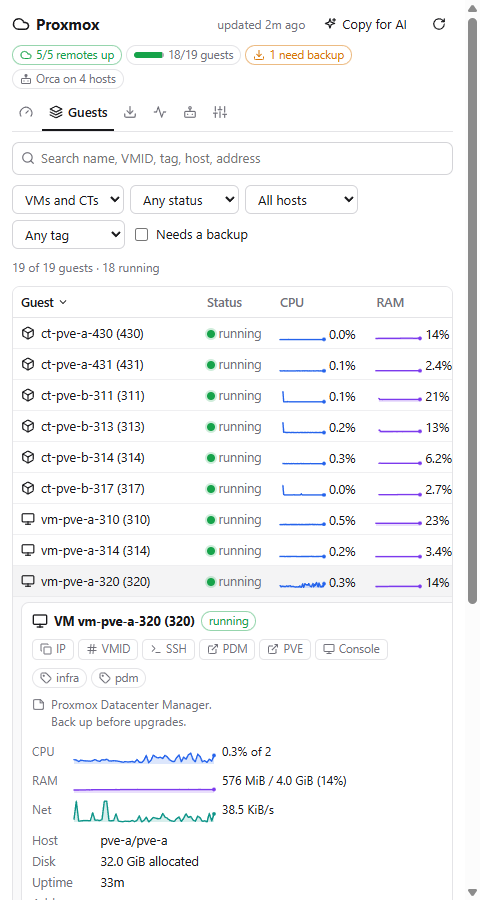
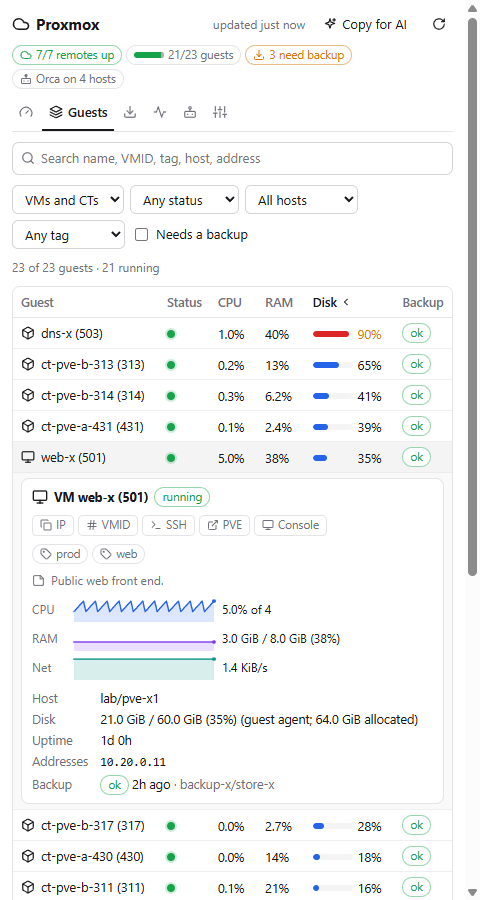
Screenshots from the example estate: the Disk column, the connections in Settings, and the listing images

diff --git a/dev/harness/listing.html b/dev/harness/listing.html
@@ -30,9 +30,9 @@
       const params = new URLSearchParams(location.search)
       const shot = params.get('shot') ?? '1'
       const SHOTS = {
-        1: [['cards', 'light', 'Hosts with live charts'], ['tree', 'dark', 'The estate as a tree, dark theme'], ['guests', 'light', 'Every guest, with its actions']],
+        1: [['cards', 'light', 'Hosts with live charts'], ['tree', 'dark', 'The estate as a tree, dark theme'], ['guests', 'light', 'Every guest, with disk use']],
         2: [['tasks', 'dark', 'Tasks of every remote'], ['planner', 'light', 'Where a new VM fits'], ['orca', 'light', 'Where Orca runs']],
-        3: [['ai', 'light', 'Copy for AI, previewed'], ['backups', 'light', 'Backups by age'], ['settings', 'dark', 'A read-only token, pinned TLS']],
+        3: [['ai', 'light', 'Copy for AI, previewed'], ['backups', 'light', 'Backups by age'], ['settings', 'dark', 'PDM, PVE and PBS: read-only, pinned']],
         cover: [['cards', 'light', ''], ['tree', 'dark', '']]
       }
       const GLYPH =

diff --git a/README.md b/README.md
@@ -40,7 +40,7 @@ Rendered from the bundled example estate (no real servers):
 <p>
   <img src="docs/screenshots/hosts-cards.png" alt="Host cards with CPU, memory and network sparklines, disk bars, update and version badges, notes and copy and open actions" width="240">
   <img src="docs/screenshots/tree-drag.png" alt="The tree of remotes, nodes, Orca hosts and guests in the dark theme, with a guest being dragged within its node" width="240">
-  <img src="docs/screenshots/guests.png" alt="The guests table with CPU and memory sparklines and disk use, one guest opened with its actions, tags, notes, charts and details" width="240">
+  <img src="docs/screenshots/guests.png" alt="The guests table sorted by disk use, with a VM's use from its guest agent and others' allocated size marked unknown, one guest opened with its actions, tags, notes, charts and details" width="240">
   <img src="docs/screenshots/tasks.png" alt="The tasks of all remotes, with two failed backups in red" width="240">
   <img src="docs/screenshots/planner.png" alt="Where a new VM fits: free memory, disk and CPU per node, best fit first" width="240">
   <img src="docs/screenshots/orca.png" alt="The Orca tab: one Orca server per Proxmox node, with its bot and workspaces" width="240">
@@ -105,7 +105,7 @@ follow [Setup](#setup).
 - **Where should a new VM go?**: free memory, disk and CPU per node for a VM of a given size, best
   fit first.
 - **Copy for AI**: a clean Markdown summary of the estate (hosts, guests with tags, state and
-  addresses, backups, warnings, where Orca runs) to paste into an agent, shown first and copied on
+  addresses, disk use, backups, warnings, where Orca runs) to paste into an agent, shown first and copied on
   request: with addresses; without addresses, a **best-effort filter** that takes IP addresses,
   DNS names, URLs and file paths out of names and tags but cannot recognize every way of writing
   them; or anonymized (every name a placeholder, no tags, VMIDs or addresses), **the mode to use
